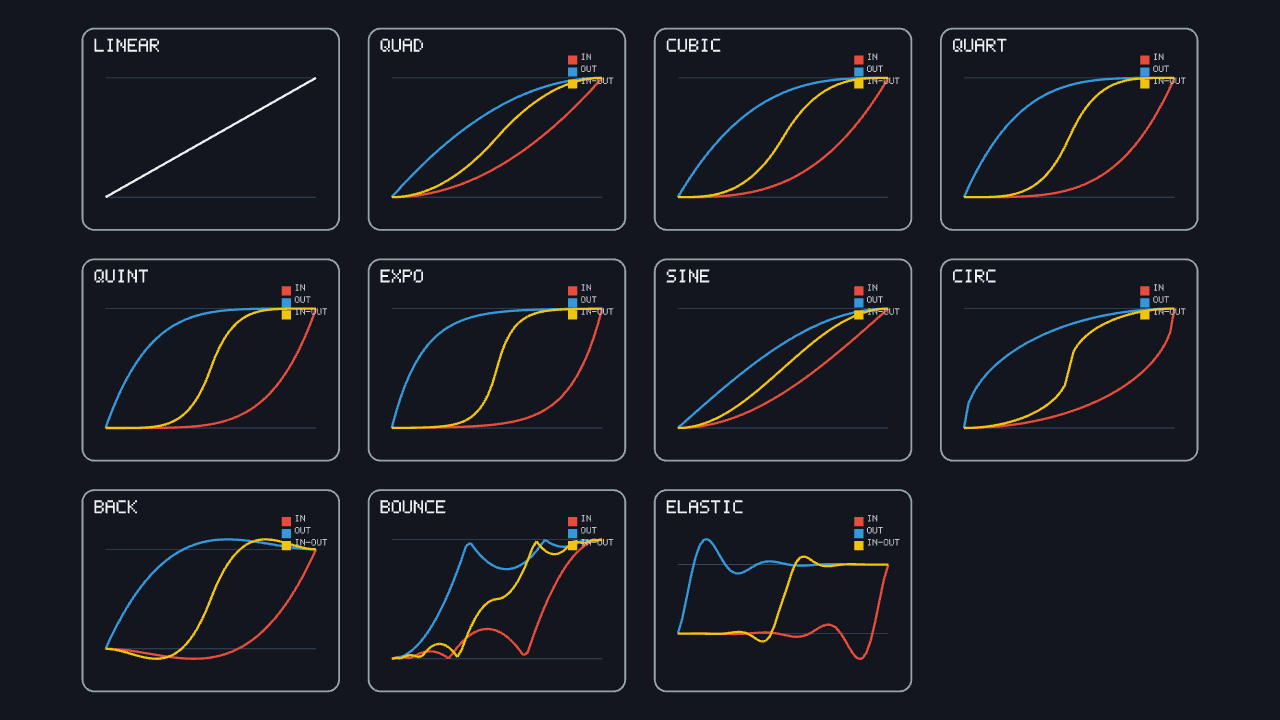
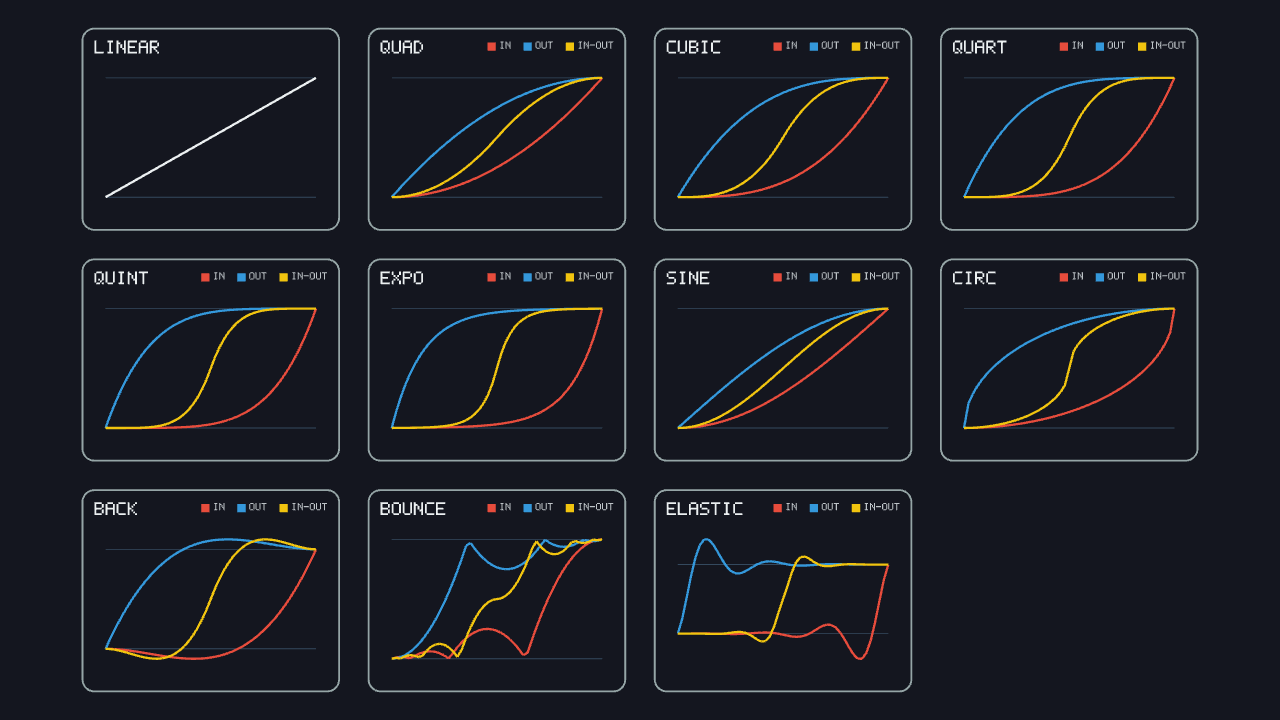
fix: move Easing legend to title row, reduce random-circle count further
The corner-stacked legend in the Easing charts still collided with the
curve near the top-right. Moved it into the title row itself (right-
aligned, same line as the card name) so it never competes with the plot
area at all.

RandomUtil's "on unit circle" panel dropped from 170 to 90 points --
still read as slightly uneven dashes rather than distinct samples.

Also:
- Added the two missing DebugFont5x7 illustrations (2D: the font at
  several sizes plus a word-wrapped paragraph; 3D: billboarded vs
  fixed-orientation text viewed from an angle, so the foreshortening
  difference is actually visible).
- root README.md's Documentation list was missing MathUtil, PolygonUtil,
  TextureUtil, and WindowUtil (present in Guide/README.md but never
  ported over) -- added all four.

diff --git a/README.md b/README.md
@@ -98,9 +98,11 @@ Each class has its own guide — start with whichever one covers what you're tou
 
 **Collision**
 - [`Collision2D`](Guide/Collision2D_Guide.md) — every 2D overlap/ray check by shape.
+- [`PolygonUtil`](Guide/PolygonUtil_Guide.md) — `IsConvex` (does my polygon qualify for SAT?) and `Triangulate` (ear clipping, for your own mesh/collision/nav data).
 - [`Collision3D`](Guide/Collision3D_Guide.md) — sphere/box/capsule/plane/triangle/quad overlap and raycasts.
 
 **Math & utilities**
+- [`MathUtil`](Guide/MathUtil_Guide.md) — `Remap`/`DeltaAngle`/`LerpAngle`/`PingPong`, the scalar helpers `MathHelper` doesn't have.
 - [`Easing`](Guide/Easing_Guide.md) — 31 tweening curves for one-shot animations with a known duration.
 - [`Noise`](Guide/Noise_Guide.md) — seedable Perlin noise, fBm, ridge, and turbulence.
 - [`RandomUtil`](Guide/RandomUtil_Guide.md) — seedable distribution sampling (Gaussian, Poisson, Binomial, uniform disc/sphere, weighted picks).
@@ -117,7 +119,9 @@ Each class has its own guide — start with whichever one covers what you're tou
 - [`FastTexture`](Guide/FastTexture_Guide.md) — raw-GL texture upload, 2.5-2.7x faster than `SetData` for frequent updates.
 - [`FpsCounter`](Guide/FpsCounter_Guide.md) — rolling-average FPS measurement.
 - [`ScreenshotUtil`](Guide/ScreenshotUtil_Guide.md) — one-call back-buffer capture to `.png`/`.jpg`.
+- [`TextureUtil`](Guide/TextureUtil_Guide.md) — procedural texture generation (solid/gradient/checkerboard/from `Noise`) plus resize/crop/flip/tint/combine transforms.
 - [`Cooldown`](Guide/Cooldown_Guide.md) — a simple countdown struct for attack cooldowns, spawn timers, input debouncing.
+- [`WindowUtil`](Guide/WindowUtil_Guide.md) — minimize/maximize/restore, opacity, window icon, multi-monitor info, clipboard text, and captured-cursor mouse-look.
 
 For the project's own internals (architecture map, conventions, the reasoning behind non-obvious choices), see [`Design/README.md`](Design/README.md).
 

diff --git a/Guide/DebugFont5x7_Guide.md b/Guide/DebugFont5x7_Guide.md
@@ -4,6 +4,8 @@
 
 Covers full basic ASCII (32–126) plus Spanish characters (`ñ Ñ á é í ó ú Á É Í Ó Ú ü Ü ¿ ¡`). Intended for debug/test text — HUD counters, labels, on-screen values — not production typography.
 
+![The 5x7 font at several sizes, plus a word-wrapped paragraph](../img/debugfont_2d.png)
+
 ## Quick start
 
 ```csharp
@@ -51,6 +53,9 @@ batch.DrawString(wrapped, panelCenter - size / 2f, pixelSize: 2, Color.White); /
 ## 3D: `DrawString3D` / `GetBillboardAxes`
 
 3D's own `DebugFont5x7.cs` ([`src/3D/DebugFont5x7.cs`](../src/3D/DebugFont5x7.cs), methods on `Primitive3DBatch`) draws the exact same `FontGlyphs5x7` bitmap data as camera-facing quads in world space instead of flat screen-space rectangles:
+
+![Billboarded text staying frontal vs fixed-orientation text foreshortened from an angle](../img/debugfont_3d.png)
+<br><sub>Same camera, viewed from the side rather than straight-on: BILLBOARDED rotates to keep facing it, FIXED doesn't and reads visibly narrower.</sub>
 
 ```csharp
 using MonoPrimitives.Primitives3D;
